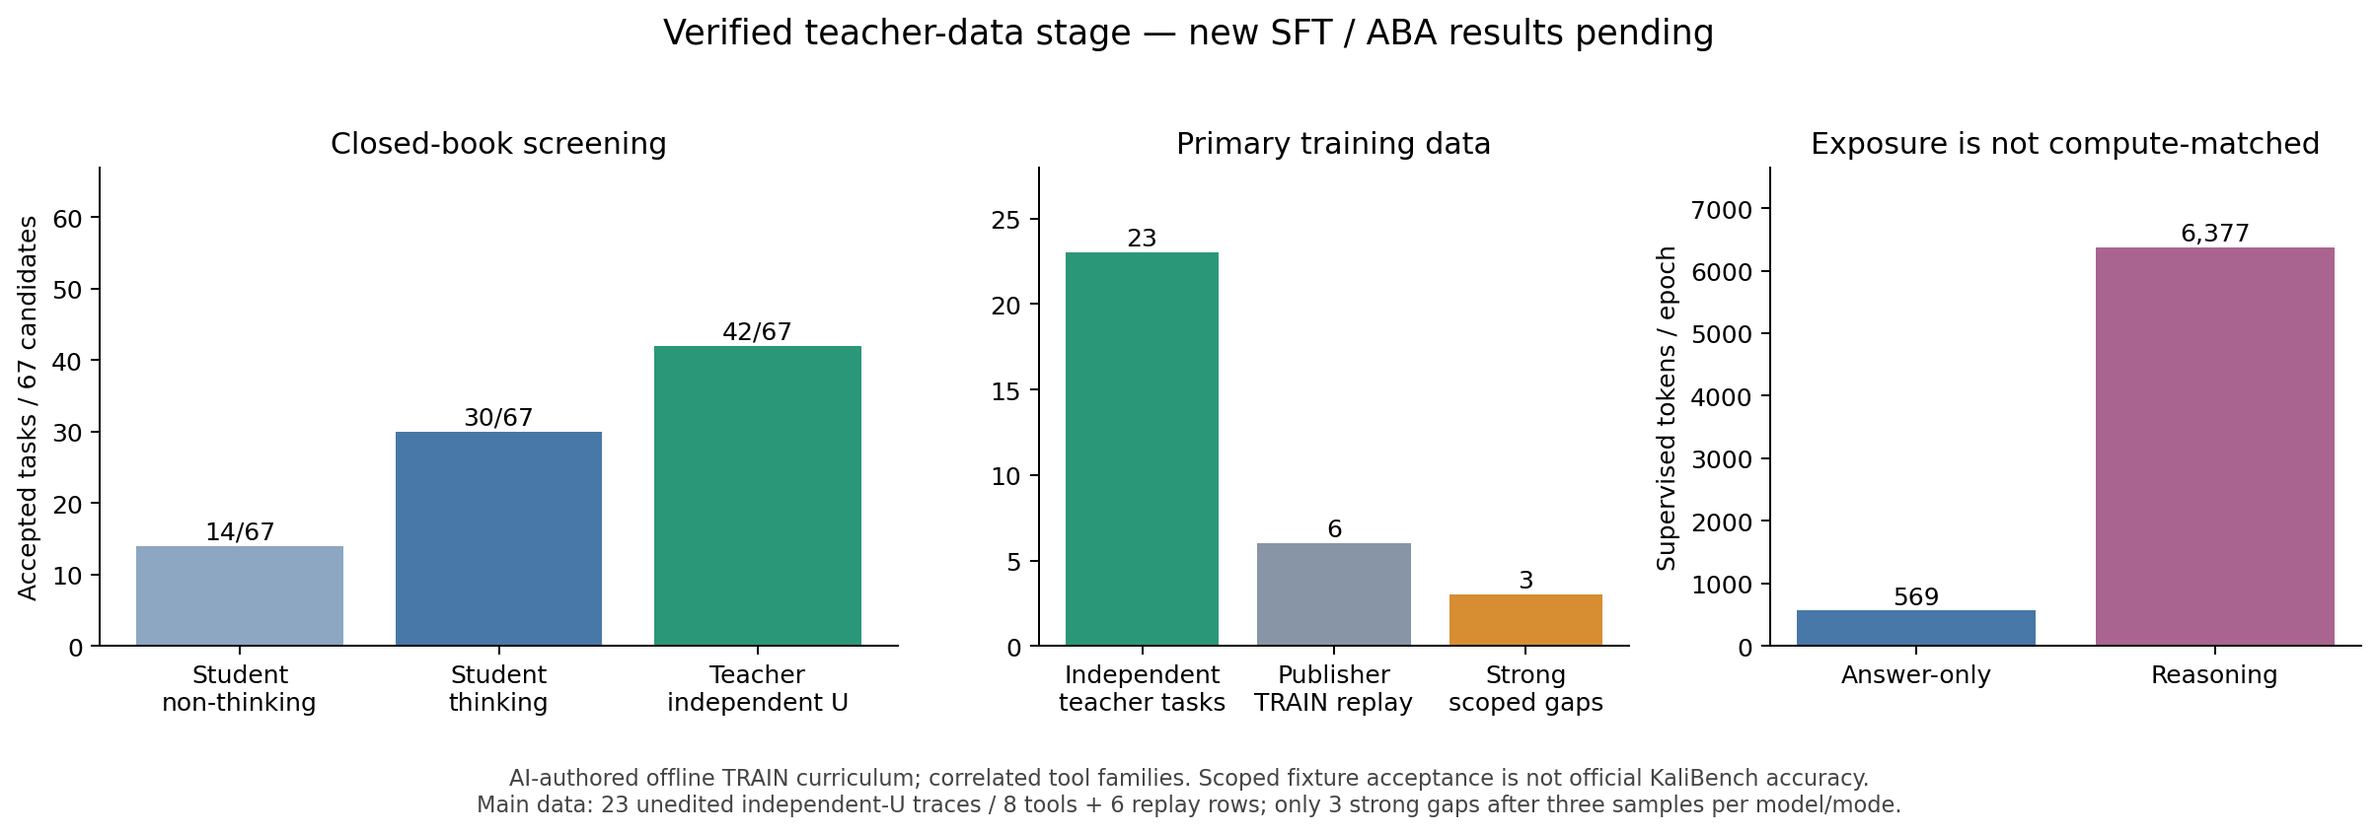
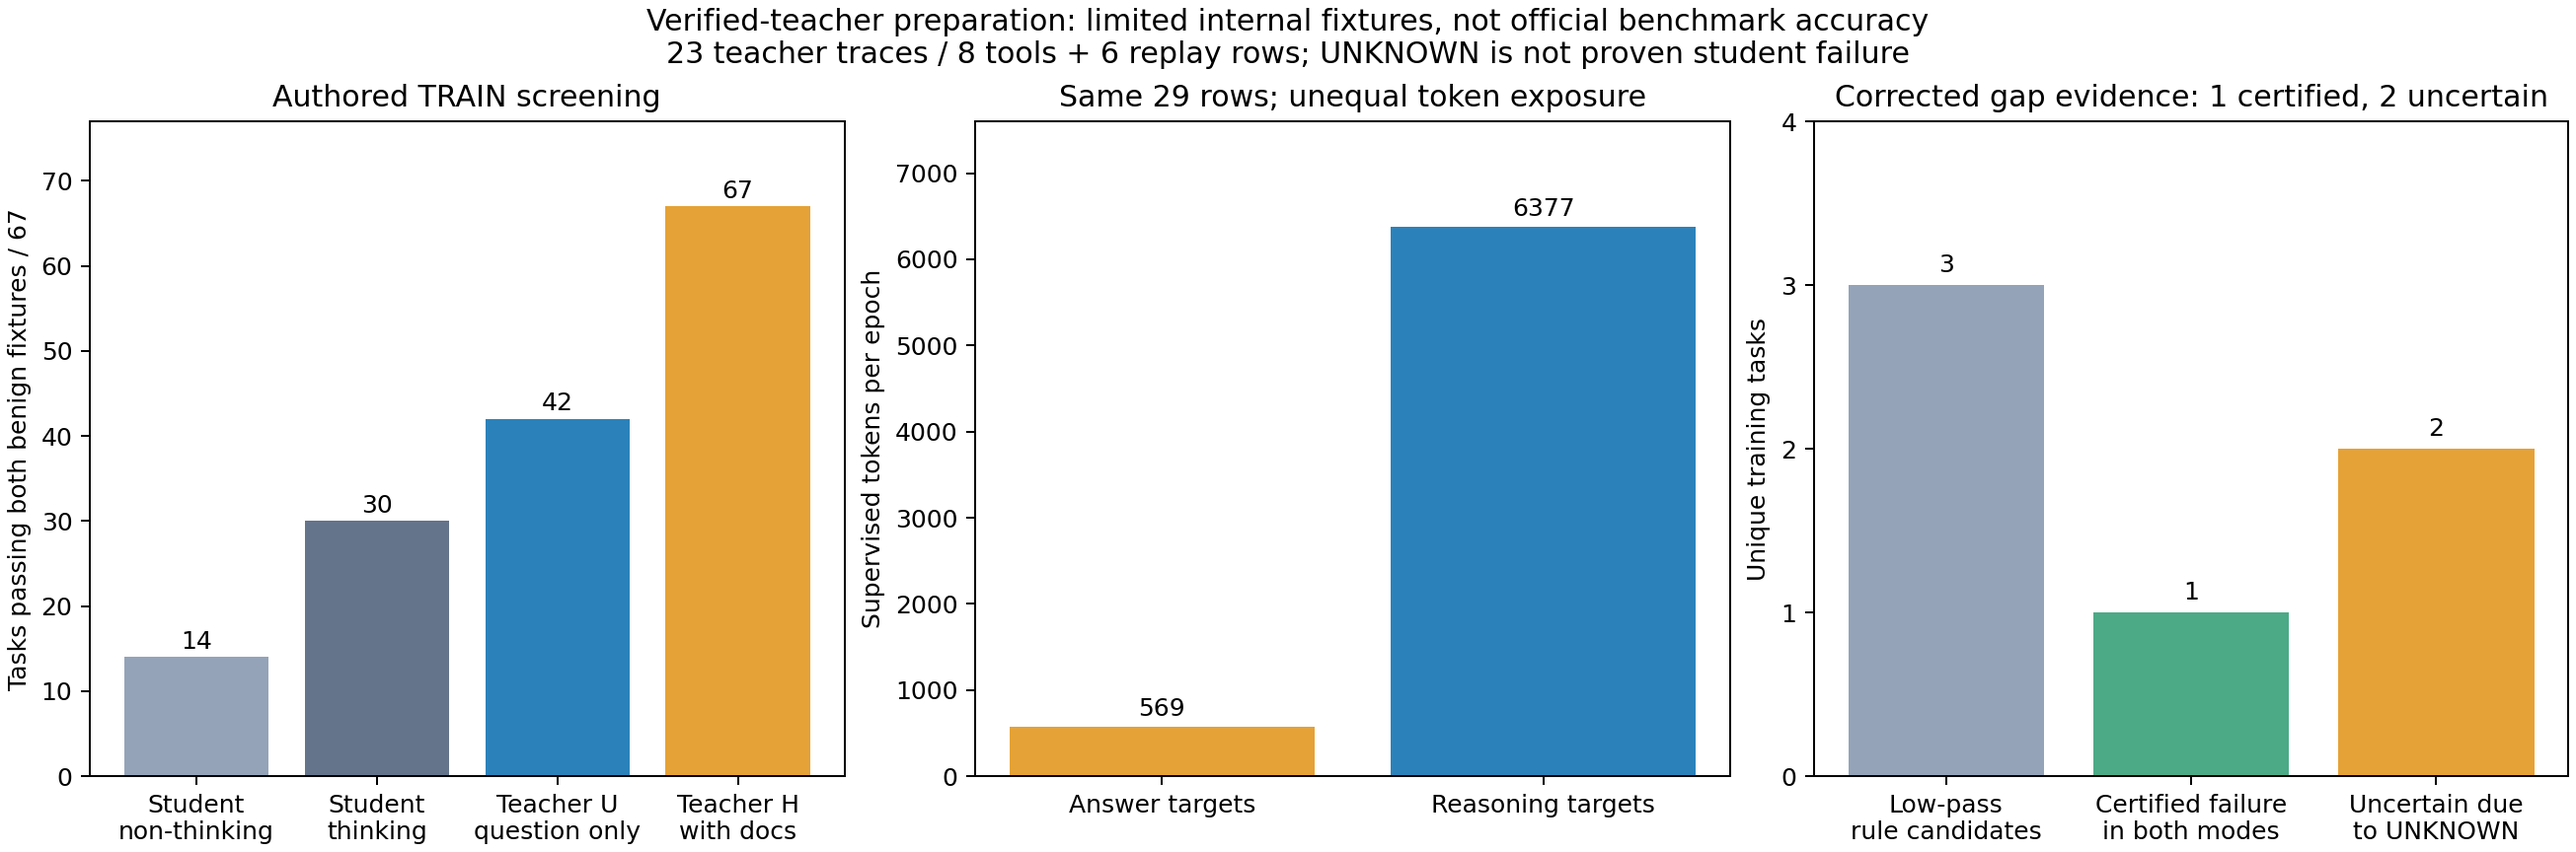
Correct teacher-student gap evidence without treating UNKNOWN as failure

diff --git a/scripts/verify-kali-verified-teacher-prep-20261117.py b/scripts/verify-kali-verified-teacher-prep-20261117.py
@@ -3,6 +3,16 @@ import ast,hashlib,json
 from pathlib import Path
 ROOT=Path(__file__).resolve().parents[1];p=ROOT/'results/kali-verified-teacher-stage-2026-11-17';s=json.loads((p/'preparation-summary.json').read_text())
 for n,h in json.loads((p/'manifest.json').read_text()).items():assert hashlib.sha256((p/n).read_bytes()).hexdigest()==h,n
+correction=json.loads((p/'gap-evidence-correction.json').read_text())
+assert correction['original_low_success_gap_candidates']==3 and correction['both_modes_repeated_failure_certified']==1 and correction['uncertain_candidates']==2
+assert correction['unknown_is_not_certified_failure'] and not correction['raw_cases_public']
+certified=0
+for candidate in correction['anonymized_candidate_counts']:
+    assert candidate['teacher_passes_of_three']>=2
+    for counts in candidate['student_counts'].values():assert sum(counts.values())==3 and counts['PASS']<=1
+    actual=all(counts['FAIL']>=2 for counts in candidate['student_counts'].values())
+    assert actual==candidate['repeated_failure_in_both_modes_certified'];certified+=actual
+assert certified==1
 a=s['admission'];assert a['main_independent_teacher_rows']+a['publisher_replay_rows']==s['encoding']['rows']==29
 assert sum(a['main_tools'].values())==23 and len(a['main_tools'])==8 and sum(a['all_tools'].values())==29 and len(a['all_tools'])==12
 assert a['strong_gaps']==3 and a['strong_gaps']<=a['main_independent_teacher_rows']

diff --git a/results/kali-verified-teacher-stage-2026-11-17/CORRECTION_ZH.md b/results/kali-verified-teacher-stage-2026-11-17/CORRECTION_ZH.md
@@ -1,0 +1,11 @@
+# 差距证据等级更正（2026-11-17）
+
+原准备记录中的 **3** 是“教师至少2/3次通过、学生两种模式各至多1/3次通过”的低通过率候选数。**它不等于3个已证实的学生能力差距。** UNKNOWN 表示白名单验收器不能判断该命令形式，不能当作功能失败。
+
+逐次合并两套夹具后，只有 **1个候选**满足教师至少2/3次通过且学生两种模式各至少2次明确FAIL；另 **2个候选**受UNKNOWN限制，保留为不确定。每种模式共3题×3次，thinking为2 PASS / 7 FAIL / 0 UNKNOWN；non-thinking为3 PASS / 3 FAIL / 3 UNKNOWN。一次试验需两套夹具都通过才计PASS；出现明确反例才可计FAIL。
+
+本次只更正证据等级。23条教师示范的最终命令、6条回放、29行配对训练、冻结评分与选模规则均未改变；独立解题与正确教师命令不等于学生此前一定不会。原准备JSON和图中的3保留为历史低成功率规则计数，应结合本更正阅读，不再称为3个确认差距。AI审查与有限夹具都不是完美语义或专家金标准。
+
+底座624条评测响应已经完成，答案组32次非零梯度更新已经核验；配对评测仍在计算，尚未得到本轮完整SFT/ABA结果。原生ABA、冻结后确认与3个候选的已见TRAIN拟合检查仍按前置条件推进。后者不参与选模，也不是泛化分数。官方TEST未调用。
+
+机器可读汇总：[gap-evidence-correction.json](gap-evidence-correction.json)。原始问题、ID、答案、轨迹与命令未公开。

diff --git a/README.md b/README.md
@@ -6,6 +6,8 @@ Research code and traceable experiment summaries for adapting open-weight langua
 
 Verified **23 independent-U teacher reasoning tasks / 8 tools**, plus **6 verified publisher TRAIN replay rows**. Only **3** tasks meet the three-sample teacher-pass/student-low-pass gap rule. The broader64-task/32-gap target was not reached; this is a limited feasibility study. On the separate67-task authored TRAIN candidate pool, untrained Qwen3-8B passes **30/67 thinking** and **14/67 non-thinking**, versus teacher **42/67** on the first independent attempt. These are scoped fixture checks, not official KaliBench accuracy.
 
+**Evidence correction:** the three low-success-rule candidates contain **only one gap with repeated certified student failures in both modes**; two remain limited by UNKNOWN checks. Training rows and scoring are unchanged. [Correction and counts](results/kali-verified-teacher-stage-2026-11-17/CORRECTION_ZH.md). The preparation figure’s gap count refers to the original rule, not three certified failures.
+
 The full workflow is launched: the fixed-comparison job is active; real two-candidate native ABA and once-after-selection confirmation wait for verified prerequisites. **No new training gain is claimed yet.** One ordinary RTX A6000 is used serially; official TEST stays untouched. Historical completed experiments below are unchanged.
 
 ![Verified teacher-data stage](results/kali-verified-teacher-stage-2026-11-17/preparation.png)

diff --git a/results/kali-verified-teacher-stage-2026-11-17/STATUS.md b/results/kali-verified-teacher-stage-2026-11-17/STATUS.md
@@ -1,5 +1,5 @@
 # Execution status
 
-Data and screening are verified. The fixed-comparison job is active; native ABA and confirmation wait for verified prerequisites. New SFT/ABA results are not yet available. The checkpoint-resume replay matched all16 outputs and reused224 completed baseline outputs.
+Baseline624 responses complete; answer-only32 real optimizer updates verified. Paired evaluation remains active; native ABA and post-selection confirmation wait for prerequisites. No new final training gain is claimed.
 
-Official TEST stays untouched. Primary data:23 independent-U tasks,8 tools,3 strong scoped gaps; the64-task/32-gap goal was not reached. Historical experiments are separate.
+Evidence correction: three low-success candidates contain only one gap with repeated certified student failures in both modes; two remain UNKNOWN-limited. [Correction](CORRECTION_ZH.md). Frozen training/metrics unchanged; official TEST untouched.

diff --git a/results/kali-verified-teacher-stage-2026-11-17/RESULT_ZH.md b/results/kali-verified-teacher-stage-2026-11-17/RESULT_ZH.md
@@ -1,5 +1,7 @@
 # 独立教师推理数据：已核验的准备结果
 
+> **差距证据等级已更正：原3个低通过率候选中，1个充分确认，2个受UNKNOWN限制。不是3个已证实失败差距。训练数据和配置未改。详见[更正记录](CORRECTION_ZH.md)。**
+
 **当前状态：数据阶段完成；全流程已提交：固定对照作业运行中；真实 ABA 与确认评测等待前置核验。本页不包含它们尚未得到的新成绩。**
 
 本轮按 Han 的建议，先检查教师能独立解决、学生低通过率的案例，再对比相同问题和答案的答案监督与完整教师推理监督。此前48条答案条件短解释实验仍单独保留，不能与本轮混同。
